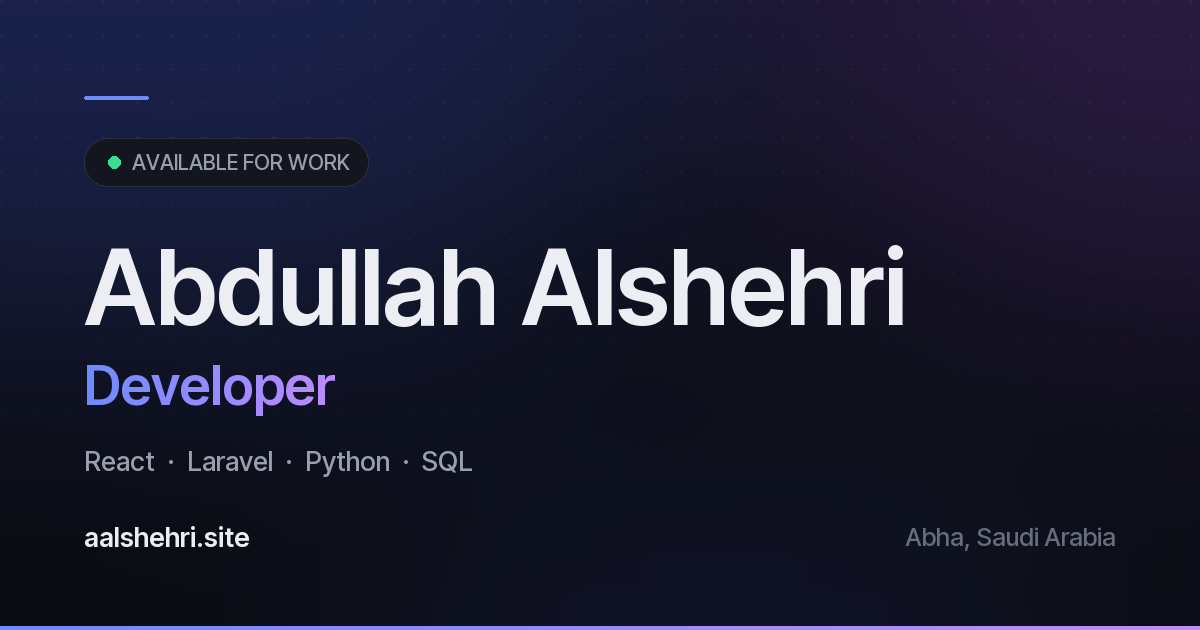
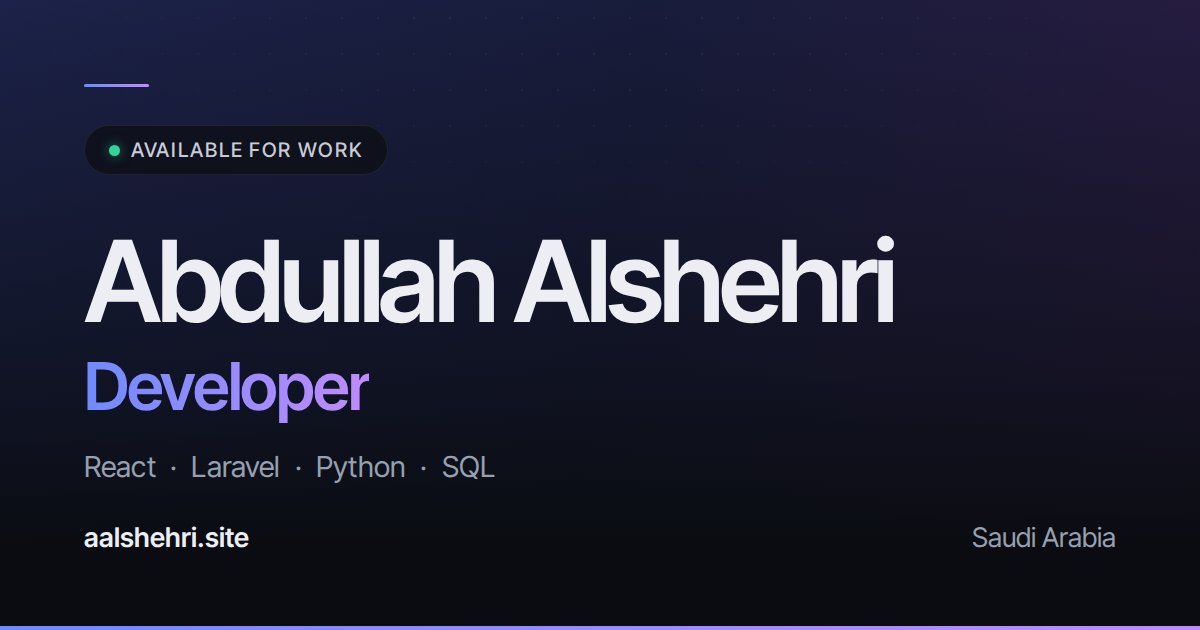
Broaden location from Abha to Saudi Arabia
The city on the about card and the contact line read as a constraint on
where I'd take a role. Country-level is accurate and doesn't narrow it.

Also removes the city from the social preview: it was baked into
og-image.png, which is what recruiters see when the site is shared, and
repeated in og:image:alt. The image is regenerated from the site's own
type and colour tokens with the same layout.

The local clock keeps Asia/Riyadh — Saudi Arabia is a single timezone, so
it still matches the stated location.

Claude-Session: https://claude.ai/code/session_01ETpxq7tT1bfKHFQBfYe4ZD

diff --git a/index.html b/index.html
@@ -18,7 +18,7 @@
     <meta property="og:image" content="https://aalshehri.site/og-image.png">
     <meta property="og:image:width" content="1200">
     <meta property="og:image:height" content="630">
-    <meta property="og:image:alt" content="Abdullah Alshehri — Developer. React, Laravel, Python, SQL. Abha, Saudi Arabia.">
+    <meta property="og:image:alt" content="Abdullah Alshehri — Developer. React, Laravel, Python, SQL. Saudi Arabia.">
     <meta name="twitter:card" content="summary_large_image">
     <meta name="twitter:image" content="https://aalshehri.site/og-image.png">
 
@@ -195,7 +195,7 @@
                             <span class="loc-ico"><svg>
                                     <use href="#i-pin" />
                                 </svg></span>
-                            <span class="loc-name" data-i18n="path.loc">Abha, Saudi Arabia</span>
+                            <span class="loc-name" data-i18n="path.loc">Saudi Arabia</span>
                             <span class="loc-time"><span class="dot"></span><span id="clock">—</span></span>
                         </div>
                     </article>
@@ -447,7 +447,7 @@
                             <svg>
                                 <use href="#i-pin" />
                             </svg>
-                            <span data-i18n="path.loc">Abha, Saudi Arabia</span>
+                            <span data-i18n="path.loc">Saudi Arabia</span>
                         </div>
                         <a href="https://www.linkedin.com/in/abdullah-alshehri-596658250/" target="_blank"
                             rel="noopener" class="cline r">

diff --git a/script.js b/script.js
@@ -62,7 +62,7 @@
             'path.b4': 'Turned business requirements into shipped features with the team',
             'path.o2': 'BSc Computer Science',
             'path.col': 'Jubail Industrial College',
-            'path.loc': 'Abha, Saudi Arabia',
+            'path.loc': 'Saudi Arabia',
             'path.awards': 'Achievements & certificates',
             'path.a1': '1st Place — Programming Contest (CPC)',
             'path.a1s': 'Computer Club · 2024',
@@ -126,7 +126,7 @@
             'path.b4': 'حوّلت متطلبات العمل إلى مزايا جاهزة بالعمل مع الفريق',
             'path.o2': 'بكالوريوس علوم الحاسب',
             'path.col': 'الكلية الصناعية بالجبيل',
-            'path.loc': 'أبها، السعودية',
+            'path.loc': 'السعودية',
             'path.awards': 'الإنجازات والشهادات',
             'path.a1': 'المركز الأول — مسابقة البرمجة (CPC)',
             'path.a1s': 'نادي الحاسب · 2024',
